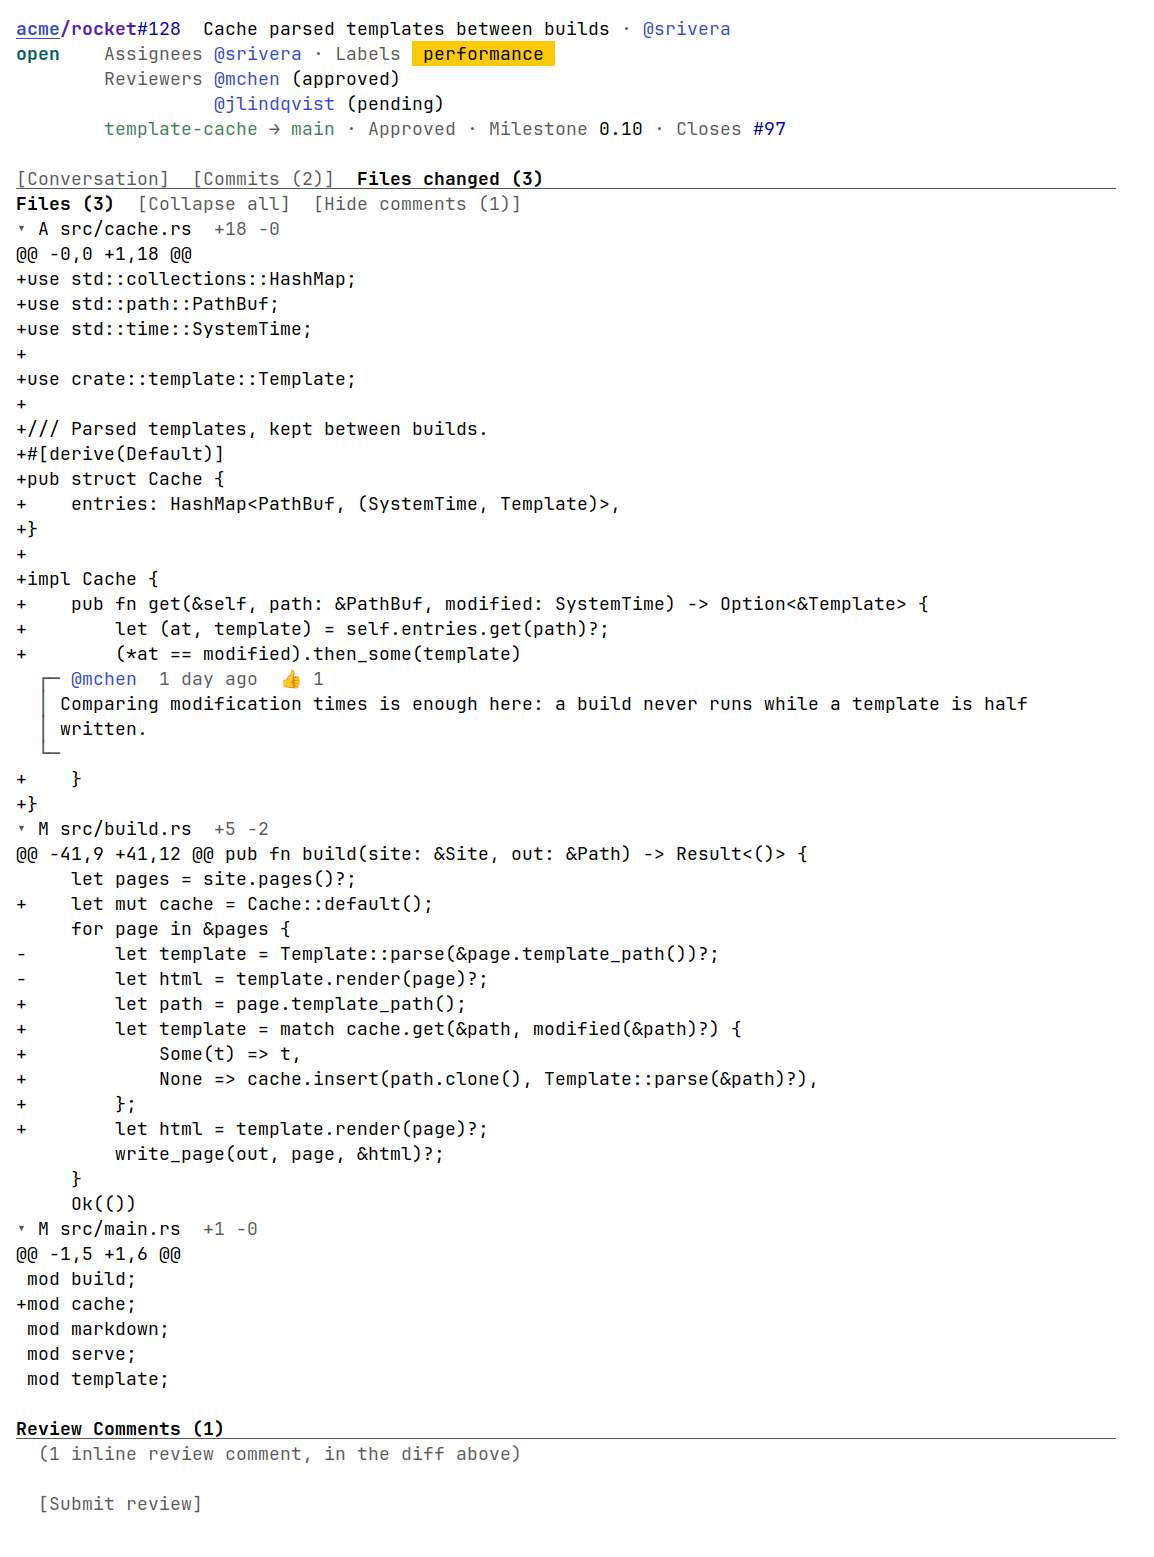
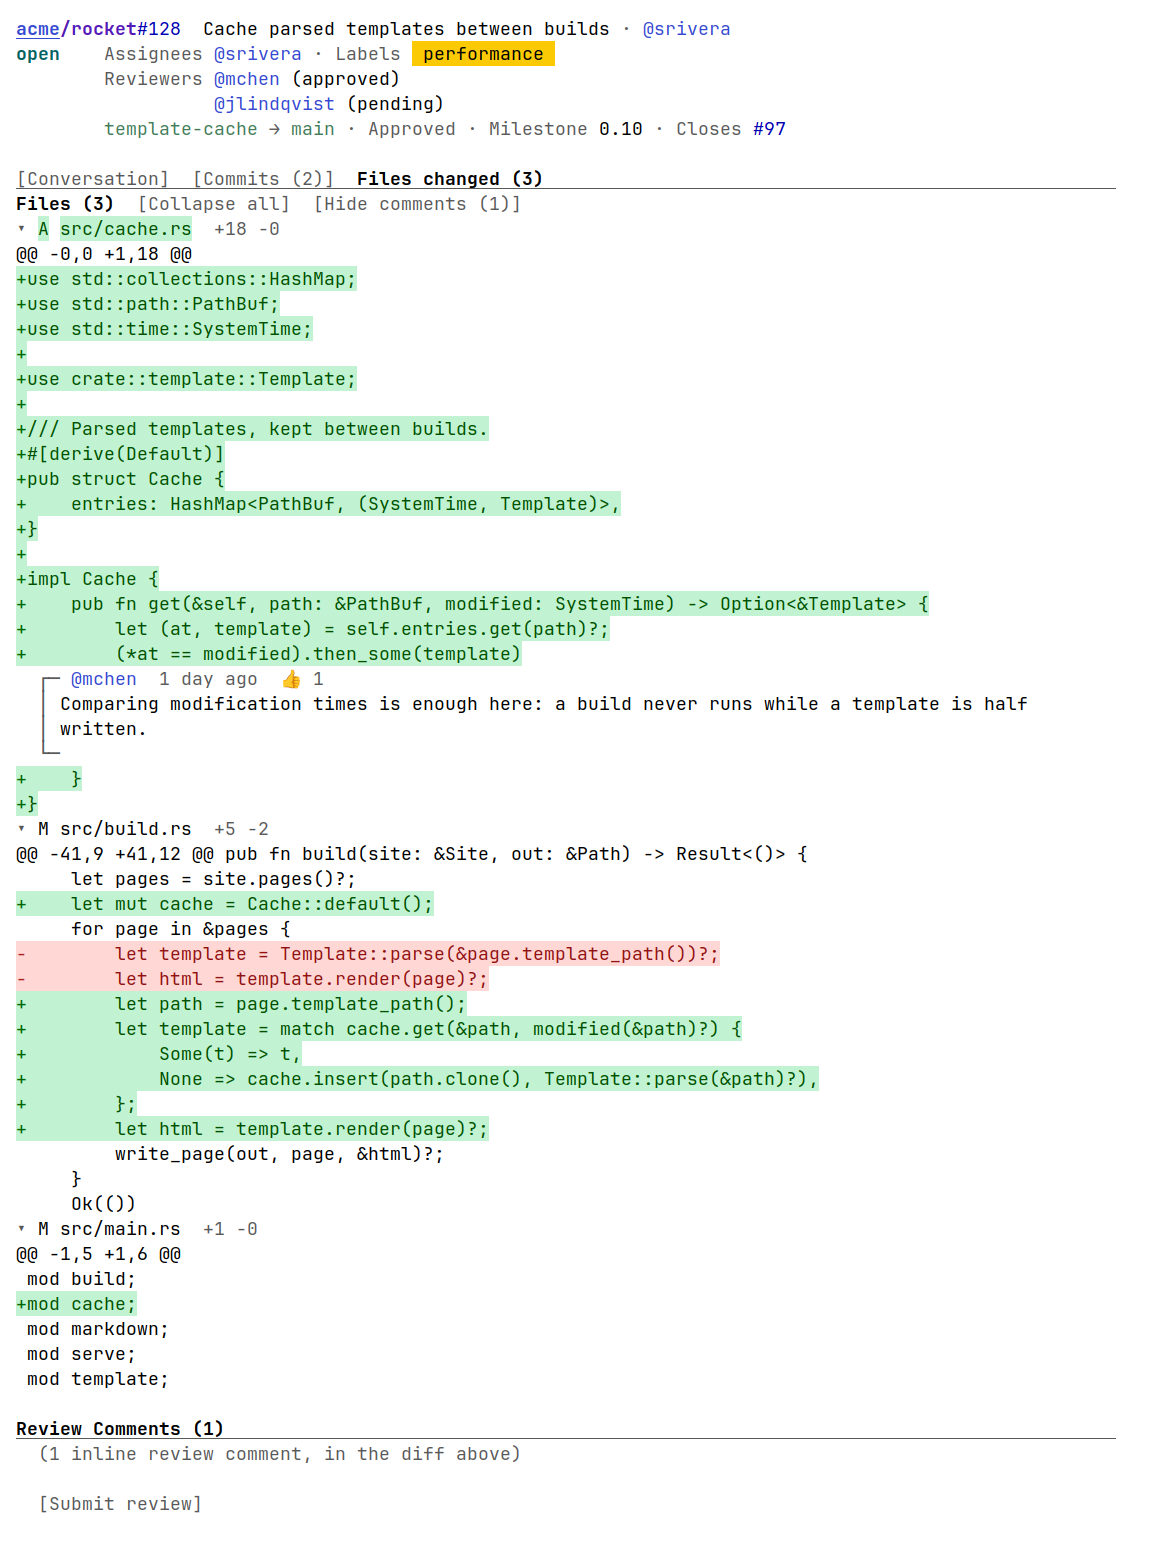
Highlight the code in diffs as its major mode would
Each hunk's old and new sides are highlighted on their own, under the
diff faces; patches over 50,000 characters keep only the diff faces.
A "\ No newline at end of file" line no longer takes a line of the new
file, which put an inline comment after it one line too low.

diff --git a/CHANGELOG.md b/CHANGELOG.md
@@ -4,6 +4,7 @@ All notable changes to this project will be documented in this file.
 The format is based on [Keep a Changelog](https://keepachangelog.com/en/1.0.0/).
 
 ## [Unreleased]
+* Diffs highlight their code as its major mode would, under the added and removed faces
 * A `*`, `~` or `(` in an HTML link's href no longer breaks the markdown around it
 * Markdown decodes every HTML entity, like `&ensp;` and `&mdash;`, and hex `&#x…;` ones
 * HTML in markdown is read by libxml2: nested and unclosed tags show as on GitHub

diff --git a/docs/screenshots/README.md b/docs/screenshots/README.md
@@ -130,6 +130,15 @@ them, its message, its checks and its files.
 [As text](commit.txt)
 <!-- /screenshot -->
 
+Its files, unfolded, are in the diff faces, the code highlighted as
+its major mode would; here JavaScript, as `js-mode` does:
+
+<!-- screenshot: (commit "acme/rocket" "1a954628a960aaef81d7b2d4521929579f3541e6") :name "commit-diff" -->
+![commit-diff](commit-diff.png)
+
+[As text](commit-diff.txt)
+<!-- /screenshot -->
+
 Two refs compared, as from a GitHub compare link: the commits, then the
 files.
 
